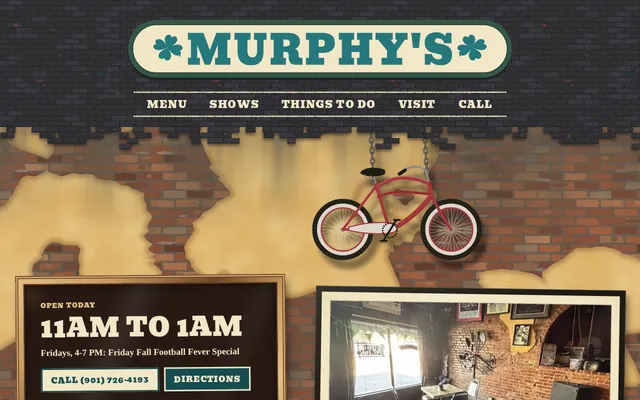
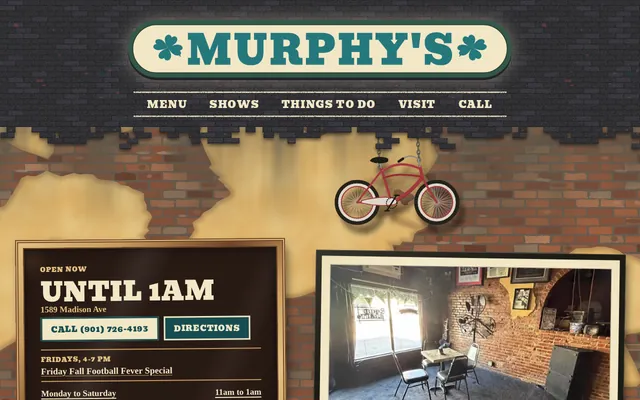
Murphy's offer: read the after-68 runs that /site-comparison/ now shows (#112)
murphysmemphis-website main 8f13616 moved its comparison to seo-audit and aeo
2026-11-12-after-68, so the deployed offer was quoting figures the client's own
page no longer shows. figures.mjs rerun against that commit. The home page's
first screen also changed in #67 (open now, until 1am, the address), so the
hero screenshot is swapped for that capture to show what the preview shows.

diff --git a/offers/zicckwaitugbyxb305cr/page.svelte b/offers/zicckwaitugbyxb305cr/page.svelte
@@ -46,8 +46,9 @@
 
 	// The hero's side by side. Old: murphysmemphis-website docs/discovery/atlas/screens/
 	// home-1280x800-full.png (the Wix home page at 1280 wide, stored at half scale), its
-	// first 800 rows. New: docs/captures/2026-11-11-issue-58/home-desktop-fold.png (the
-	// rebuild's home page at 1280x800 with Google's hours, ADR 0023), halved to match.
+	// first 800 rows. New: docs/captures/2026-11-12-issue-67/home-desktop-fold.png (the
+	// rebuild's home page at 1280x800 after #67's persona fixes: open now, until when, the
+	// address, Call, Directions, then the Friday special), halved to match.
 	const currentHost = new URL(figures.current).host;
 	const previewHost = $derived(new URL(offer.previewUrl).host);
 
@@ -303,7 +304,7 @@
 					<a href={offer.previewUrl} target="_blank" rel="noopener noreferrer">
 						<img
 							src={asset('new-site.webp')}
-							alt="Open your new site. Its home page: your sign, a brick and plaster wall, today’s hours and the room."
+							alt="Open your new site. Its home page: your sign, a brick and plaster wall, whether you are open now, the address and the room."
 							width="640"
 							height="400"
 							decoding="async"

diff --git a/offers/zicckwaitugbyxb305cr/offer.ts b/offers/zicckwaitugbyxb305cr/offer.ts
@@ -1,8 +1,8 @@
 // Murphy's (bar and grill, 1589 Madison Ave, Memphis): hosting and upkeep for the rebuilt
 // site at murphysmemphis-website.pages.dev (murphysmemphis-website issue #11). Facts are
 // from that repo's docs/discovery/ at main 4d497dd, cited per concern below; the measured
-// figures (figures.json) are its seo-audit 2026-11-11-after-45 run and its fact recall
-// 2026-11-11-after-58 run, read at main 3e5389c. Nobody at Murphy's has been contacted.
+// figures (figures.json) are its seo-audit 2026-11-12-after-68 run and its fact recall
+// 2026-11-12-after-68 run, read at main 8f13616. Nobody at Murphy's has been contacted.
 //
 // Published at the owner's request on 2026-11-11 ("Please get the current proposal deployed."),
 // with the add-on prices marked SUGGESTED below as they stood then. `sent` is that date.
